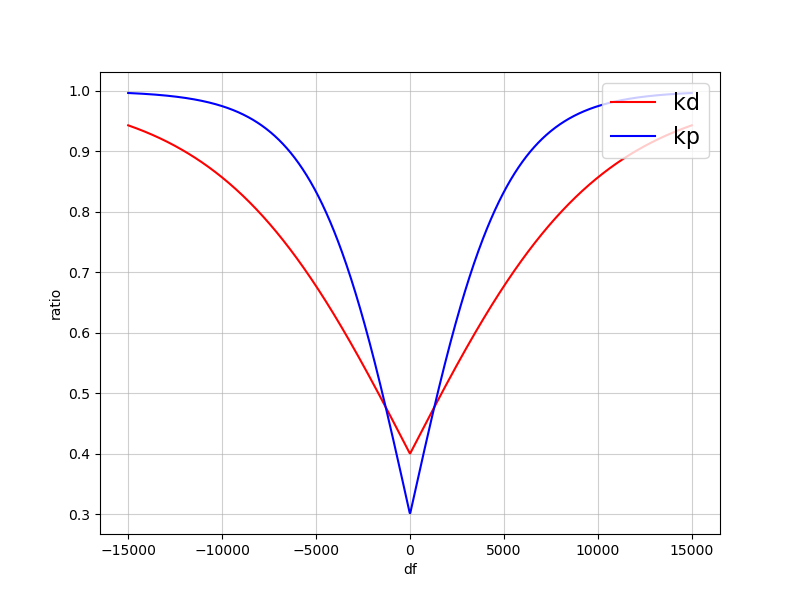
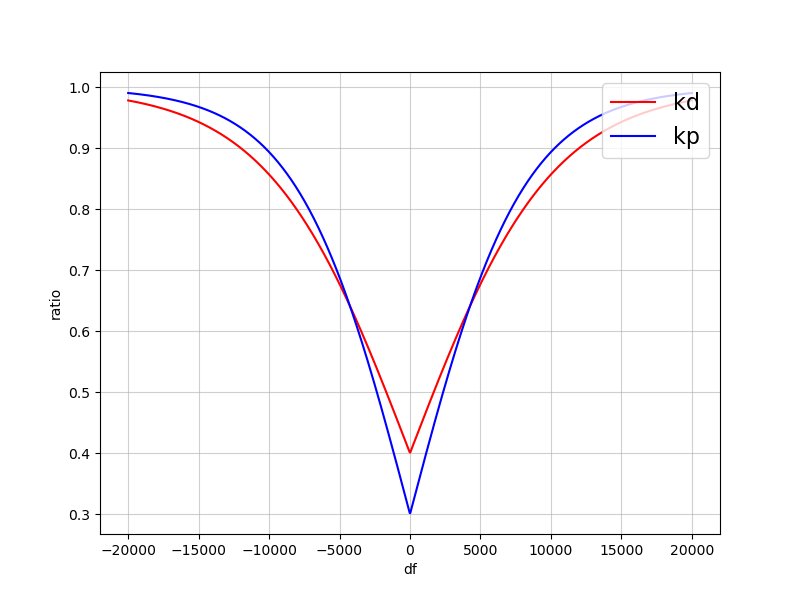
道心破碎

diff --git a/usr/main.cpp b/usr/main.cpp
@@ -12,7 +12,7 @@ PID_Position wheel_turn_pid;
 float left_wheel_pidout = 0;
 float right_wheel_pidout = 0;
 
-float speed_setpoint = 75;
+float speed_setpoint = 70;
 float left_speed_setpoint = 0;
 float right_speed_setpoint = 0;
 
@@ -20,8 +20,8 @@ float turn_pidout = 0;
 float turn_angle = 0;
 float turn_max = 15;
 
-float Kp_max = 0.022f;
-float Kd_max = 0.2f;
+float Kp_max = 0.024f;
+float Kd_max = 0.21f;
 
 // 信号处理变量
 volatile sig_atomic_t g_signal_received = 0;
@@ -67,11 +67,12 @@ int incision_max = 12;
 int detect_count_max = 0;
 
 int blind_line;
-int protect = 1;
+int protect = true;
 
 int i = SERVO_MOTOR_MID;
 int j = 0;
 int running_time = 10000;
+int stop_in_garage = false;
 
 BEEP beep(GPIO61);
 Moto Moto_L(PWM1_GPIO65, 75, PWM0_GPIO64, 73, false);
@@ -195,9 +196,6 @@ void* realtime_task(void* arg) {
             element_count();
             element_process();
 
-            // fix_crossroad();
-            // fix_left_break(0,60);
-            // fix_right_break(0,60);
             detect_count_max = get_border_line(80);
             outbounds_detection();
             // });
@@ -206,18 +204,19 @@ void* realtime_task(void* arg) {
             // vofa_udp.printf("L_pid:%f,%f,%d,%d\n",left_speed_setpoint, right_speed_setpoint, Moto_L.speed, Moto_R.speed);
 
             // 动态Kp，Kd
-            if ((flag.need_sec_border && flag.right_sec_border && flag.right_border) ||
-                (flag.need_sec_border && flag.left_sec_border && flag.left_border)){
-                wheel_turn_pid.Kp = Kp_max;
-                wheel_turn_pid.Kd = Kd_max;
-            }else if (counter.drive_in_left_roundabout || counter.drive_in_right_roundabout) {
-                wheel_turn_pid.Kp = Kp_max;
-                wheel_turn_pid.Kd = Kd_max;
-            }else if (counter.drive_in_crossroad > 50){
+            // if ((flag.need_sec_border && flag.right_sec_border && flag.right_border) ||
+            //     (flag.need_sec_border && flag.left_sec_border && flag.left_border)){
+            //     // wheel_turn_pid.Kp = Kp_max * (0.7 * (tanh(fabs((double)image_diff) / 6000)) + 0.3);
+            //     // wheel_turn_pid.Kd = Kd_max * (0.6 * (tanh(fabs((double)image_diff) / 10000)) + 0.4);
+            // }
+            if (counter.drive_in_left_roundabout || counter.drive_in_right_roundabout) {
+                wheel_turn_pid.Kp = Kp_max * 0.8;
+                wheel_turn_pid.Kd = Kd_max * 0.8;
+            }else if (counter.drive_in_crossroad > 800){
                 wheel_turn_pid.Kp = Kp_max * 0.4;
                 wheel_turn_pid.Kd = Kd_max * 0.4;
             }else{
-                wheel_turn_pid.Kp = Kp_max * (0.7 * (tanh(fabs((double)image_diff) / 6500)) + 0.3);
+                wheel_turn_pid.Kp = Kp_max * (0.7 * (tanh(fabs((double)image_diff) / 8000)) + 0.3);
                 wheel_turn_pid.Kd = Kd_max * (0.6 * (tanh(fabs((double)image_diff) / 10000)) + 0.4);
             }
 
@@ -263,7 +262,10 @@ void* realtime_task(void* arg) {
             // vofa_udp.printf("%f,%f,%d,%d\n",left_speed_setpoint,right_speed_setpoint, Moto_L.speed, Moto_R.speed);
             // vofa_udp.printf("%d,%d,%d,%d,%d,%.1f\n",id,left_lost_count,right_lost_count,rstate,counter.drive_in_right_roundabout,angelZ - icm20948_data.anglez);
             // vofa_udp.printf("%d,%d,%d,%d,%d,%d\n",lost_x1,lost_x2,lost_y1,lost_y2,x_left,x_right);
-            vofa_udp.printf("%d,%d\n",flag.found_garage, garage_count);
+            // vofa_udp.printf("%d,%d,%d,%d,%d,%d\n",lost_x1,lost_x2,lost_y1,lost_y2,middle_line[60-lost_y1][0], middle_line[60-lost_y1][1]);
+            // vofa_udp.printf("%d,%d,%d,%d\n",flag.found_garage,counter.found_garage, garage_count,detect_count_max);
+            vofa_udp.printf("%d,%d,%d,%.2f\n",image_diff,left_reach_edge,right_reach_edge,turn_angle);
+            // vofa_udp.printf("%d,%d,%d,%d,%d,%d\n",lost_x1,lost_x2,lost_y1,lost_y2,left_reach_edge,right_reach_edge);
 
             // 速度环PID
             if(flag.stop){
@@ -303,12 +305,12 @@ void* realtime_task(void* arg) {
                 flag.stop = true;
             }
 
-            if (Moto_L.speed > 0 || Moto_R.speed > 0) {
+            if (Moto_L.speed > 10 || Moto_R.speed > 10) {
                 flag.start = true;
             }
 
             // 电机堵转或编码器异常时停止电机
-            if(protect == 1) {
+            if(protect == true) {
                 if ((abs(Moto_L.speed) < 10 && abs(left_speed_setpoint) > 40) ||
                     (abs(Moto_R.speed) < 10 && abs(right_speed_setpoint) > 40)) {
                         counter.stop_motor += 10;
@@ -345,7 +347,7 @@ void element_count(void) {
         counter.found_left_roundabout = 0;
         counter.found_right_roundabout = 0;
         if(counter.found_crossroad > 2){
-            beep.beep_ms(400);
+            beep.beep_ms(500);
             counter.drive_in_crossroad = 4000;
         }
     }
@@ -358,12 +360,21 @@ void element_count(void) {
         counter.drive_in_crossroad -= 10;
     }
 
-    if (flag.found_garage == true && counter.found_garage == 0 && counter.drive_in_ramp == 0) {
+    // 车库
+    if (flag.found_garage == true && counter.drive_in_ramp == 0 && counter.drive_in_crossroad == 0) {
         counter.found_garage += 2;
-        if (counter.found_garage > 5) {
+        if (counter.found_garage > 3) {
             beep.beep_ms(400);
-            counter.found_garage = 1000;
+            counter.drive_in_garage = 1000;
         }
+    }
+
+    if (counter.found_garage > 0) {
+        counter.found_garage--;
+    }
+
+    if (counter.drive_in_garage > 0) {
+        counter.drive_in_garage -= 10;
     }
 
     // 坡道
@@ -421,13 +432,14 @@ void element_count(void) {
 void element_process() {
     // 十字
     if (counter.drive_in_crossroad > 50) {
-        fix_crossroad();
-        // beep.beep_ms(100);
+        if (counter.drive_in_crossroad > 50) {
+            fix_crossroad();
+        }
         if(flag.found_crossroad) {
             counter.drive_in_crossroad = 4000;
         } else if (distances[5] > road_distances[5] && rstate == 0 && counter.drive_in_crossroad >= 50){
             rstate = 1;
-            counter.drive_in_crossroad = 2000;
+            counter.drive_in_crossroad = 800;
         } else if(distances[5] < road_distances[5] + 5 && rstate == 1){
             rstate = 0;
             counter.drive_in_crossroad = 200;
@@ -436,6 +448,9 @@ void element_process() {
     }
 
     // 车库
+    if (counter.drive_in_garage > 0 && stop_in_garage == true) {
+        flag.stop = true;
+    }
 
     // 坡道
     if(counter.drive_in_ramp > 0){
@@ -513,17 +528,17 @@ void element_check(void) {
 }
 
 void image_diff_process(void) {
-    // if((counter.drive_in_crossroad > 0 && counter.drive_in_obstacle == 0)) {
-    //     // 十字处理
-    //     left_sum = 0;
-    //     right_sum = 0;
-    //     for(int i = 0; i < distance_middle_line_index; i++){
-    //         left_sum -= (distance_middle_line[i][0] - IMAGE_MIDDLE);
-    //     }
-    //     left_sum *= 35;
-    //     image_diff = right_sum - left_sum;
-    // }
-    if(counter.drive_in_ramp > 0 && counter.drive_in_ramp < 280){
+    if((counter.drive_in_crossroad > 400 && counter.drive_in_obstacle == 0)) {
+        // 十字处理
+        left_sum = 0;
+        right_sum = 0;
+        for(int i = 0; i < distance_middle_line_index; i++){
+            left_sum -= (distance_middle_line[i][0] - IMAGE_MIDDLE);
+        }
+        left_sum *= 35;
+        image_diff = right_sum - left_sum;
+    }
+    else if(counter.drive_in_ramp > 0 && counter.drive_in_ramp < 280){
         right_sum = 0;
         left_sum = -(icm20948_data.anglez - ramp_angle) * 50;
         image_diff = right_sum - left_sum;
@@ -542,6 +557,15 @@ void image_diff_process(void) {
         // left_sum += 4000 * cornering;
         image_diff = right_sum - left_sum;
     }
+
+    if ((flag.need_sec_border && flag.right_sec_border && flag.right_border) ||
+    (flag.need_sec_border && flag.left_sec_border && flag.left_border)) {
+        if (image_diff < 0) {
+            image_diff -= left_reach_edge * 120;
+        }else {
+            image_diff += right_reach_edge * 120;
+        }
+    }
 }
 
 // 非实时任务线程函数
@@ -556,7 +580,7 @@ void *non_realtime_task(void *arg) {
             // fprintf(stdout,"%d\n",iii++);
             frame.copyTo(gray);
             // MEASURE_TIME("non rt task", {
-                memcpy(gray1ch_image,gray_image , 80 * 60);
+                memcpy(gray1ch_image,gray_image, 80 * 60);
                 // memcpy(gray1ch_image, binary_image, 80 * 60);
                 cv::cvtColor(gray1ch, gray3ch, cv::COLOR_GRAY2BGR);
             // });
@@ -576,10 +600,10 @@ void *non_realtime_task(void *arg) {
                 distance = atag.getClosetTagDistance(1500);
                 // cv::putText(gray3ch, std::to_string(distance), cv::Point(0, 20), cv::FONT_HERSHEY_SIMPLEX, 0.6, cv::Scalar(0, 0xff, 0), 2);
             // });
-                tft180_draw_border_line(gray3ch, 0, 0, left_border, cv::Scalar(0, 0xff, 0));
-                tft180_draw_border_line(gray3ch, 0, 0, right_border, cv::Scalar(0xff, 0, 0));
-                tft180_draw_border_line(gray3ch, 0, 0, middle_line, cv::Scalar(0, 0, 0xff));
-                tft180_draw_border_line(gray3ch, 0, 0, distance_middle_line, cv::Scalar(0, 0, 0));
+                tft180_draw_real_border_line(gray3ch, 0, 0, left_border, cv::Scalar(0, 0xff, 0));
+                tft180_draw_real_border_line(gray3ch, 0, 0, right_border, cv::Scalar(0xff, 0, 0));
+                tft180_draw_real_border_line(gray3ch, 0, 0, middle_line, cv::Scalar(0, 0, 0xff));
+                tft180_draw_real_border_line(gray3ch, 0, 0, distance_middle_line, cv::Scalar(0, 0, 0));
             // MEASURE_TIME("http write", {
                 vofa_tcp.imwrite(gray3ch);
                 // cv::Mat cv_image(60, 60, CV_8UC1, gray_pers_image); // 60行60列的灰度图
@@ -611,7 +635,7 @@ int main()
     }
     LOGW("MAIN", "Application starting...");
 
-    system("v4l2-ctl -d /dev/video0 -c contrast=36 -c gamma=80 -c exposure_auto=1 -c exposure_absolute=100 -c sharpness=55");
+    system("v4l2-ctl -d /dev/video0 -c contrast=36 -c gamma=80 -c exposure_auto=1 -c exposure_absolute=90 -c sharpness=55");
 
     // 创建posix线程
     pthread_t rt_thread;

diff --git a/inc/config.h b/inc/config.h
@@ -40,9 +40,9 @@ enum Polarity {
 // 舵机配置
 #define SERVO_MOTOR_DUTY(x)         ((float)PWM_DUTY_MAX/(1000.0/(float)SERVO_MOTOR_FREQ)*(0.5+(float)(x)/90.0))
 
-#define SERVO_MOTOR_MID             (83)              // 定义主板上舵机中间位置 角度
-#define SERVO_MOTOR_L_MAX           (SERVO_MOTOR_MID-15)             // 定义主板上舵机活动范围 角度
-#define SERVO_MOTOR_R_MAX           (SERVO_MOTOR_MID+15)              // 定义主板上舵机活动范围 角度
+#define SERVO_MOTOR_MID             (84)              // 定义主板上舵机中间位置 角度
+#define SERVO_MOTOR_L_MAX           (SERVO_MOTOR_MID - 15)             // 定义主板上舵机活动范围 角度
+#define SERVO_MOTOR_R_MAX           (SERVO_MOTOR_MID + 15)              // 定义主板上舵机活动范围 角度
 
 #define SERVO_MOTOR_PWM             (GTIM1_GPIO88)                 // 定义主板上舵机对应引脚
 #define SERVO_MOTOR_FREQ            (50)              // 定义主板上舵机频率

diff --git a/inc/counter.h b/inc/counter.h
@@ -19,6 +19,7 @@ typedef struct{
     int16_t drive_in_right_roundabout;  // 正在驶入右环岛倒计时(ms)
     int16_t drive_in_crossroad;  // 正在驶入十字路口倒计时(ms)
     int16_t drive_in_ramp;  // 正在驶入坡道倒计时(ms)
+    int16_t drive_in_garage;
     int16_t drive_in_obstacle;  // 正在驶入障碍物倒计时(ms)
     int16_t avoid_roundabout;  // 不进行环岛检测倒计时(ms)
     int16_t avoid_obstacle;  // 不进行障碍物检测倒计时(ms)

diff --git a/inc/image_process.h b/inc/image_process.h
@@ -157,6 +157,8 @@ void calculate_contrast_x8(uint8_t *dst_image, const uint8_t *src_image, int16_t
 
 void tft180_draw_border_line(cv::Mat& image, int x, int y, const uint8_t line[][2], cv::Scalar color);
 
+void tft180_draw_real_border_line(cv::Mat& image, int x, int y, const uint8_t line[][2], cv::Scalar color);
+
 float distance_to_line(float Ax, float Ay, float Bx, float By, float Cx, float Cy);
 
 float get_angle(float Ax, float Ay, float Bx, float By, float Cx, float Cy);

diff --git a/Kp.py b/Kp.py
@@ -4,13 +4,13 @@ import numpy as np
 
 e = 2.7182818284590452353602874713527
 
-left_range = -15000
-right_range = 15000
+left_range = -20000
+right_range = 20000
 
 x1 = np.linspace(left_range, right_range, 1000)
 x2 = np.linspace(left_range, right_range, 1000)
 
-kp = 0.7 * (np.tanh(abs(x2) / 5000)) + 0.3
+kp = 0.7 * (np.tanh(abs(x2) / 8000)) + 0.3
 kd = 0.6 * (np.tanh(abs(x1) / 10000)) + 0.4
 
 plt.figure(figsize=(8, 6))  # 设置图像大小

diff --git a/inc/main.h b/inc/main.h
@@ -80,6 +80,9 @@ extern int left_lost_dir;
 extern int right_lost_dir;
 extern int blind_line;
 extern int id;
+extern int incision;
+extern int incision_max;
+extern int detect_count_max;
 extern double distance;
 
 #endif //CV_MAIN_H
